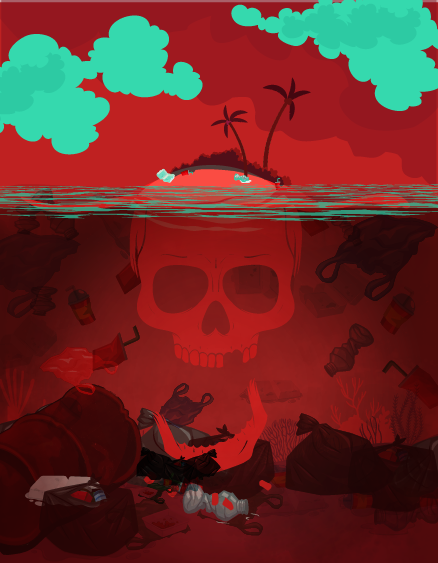
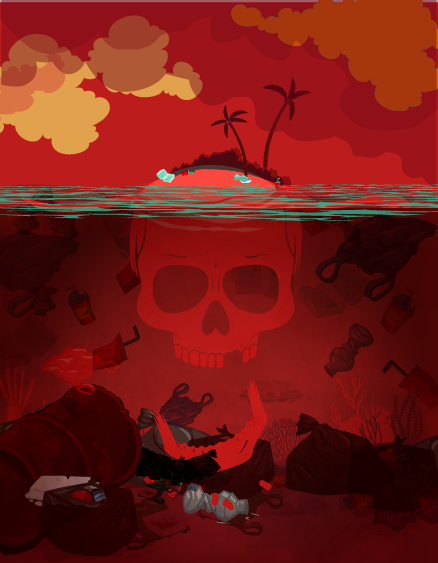
foo

Changed region(s): [[0.0, 0.0302, 0.4749, 0.2718], [0.5046, 0.0, 1.0, 0.2114]]

diff --git a/frontend/src/app/evaluation/components/cleaness-image/cleaness-image.component.scss b/frontend/src/app/evaluation/components/cleaness-image/cleaness-image.component.scss
@@ -14,7 +14,7 @@
   width: 100%;
 
   &.picture_good {
-    background-image: url("../../../../assets/nature.png");
+    background-image: url("../../../../assets/nicecalypse.png");
   }
 
   &.picture_bad {
@@ -22,6 +22,7 @@
     left: 0;
     top: 0;
     background-image: url("../../../../assets/apocalypse.png");
+    mask: url("../../../../assets/maske.png");
     transition: all 0.1s linear;
   }
 }

diff --git a/frontend/src/app/evaluation/components/cleaness-image/cleaness-image.component.html b/frontend/src/app/evaluation/components/cleaness-image/cleaness-image.component.html
@@ -1,4 +1,6 @@
 <div class="picture picture_good"></div>
 
 <div class="picture picture_bad"
-     [attr.style]="clippingPath"></div>
+     [attr.style]="clippingPath"
+     [style.mask-position]="'50vw 0'"></div>
+<!-- [style.maskPosition]="percentage + 'vw 0'"></div> -->
